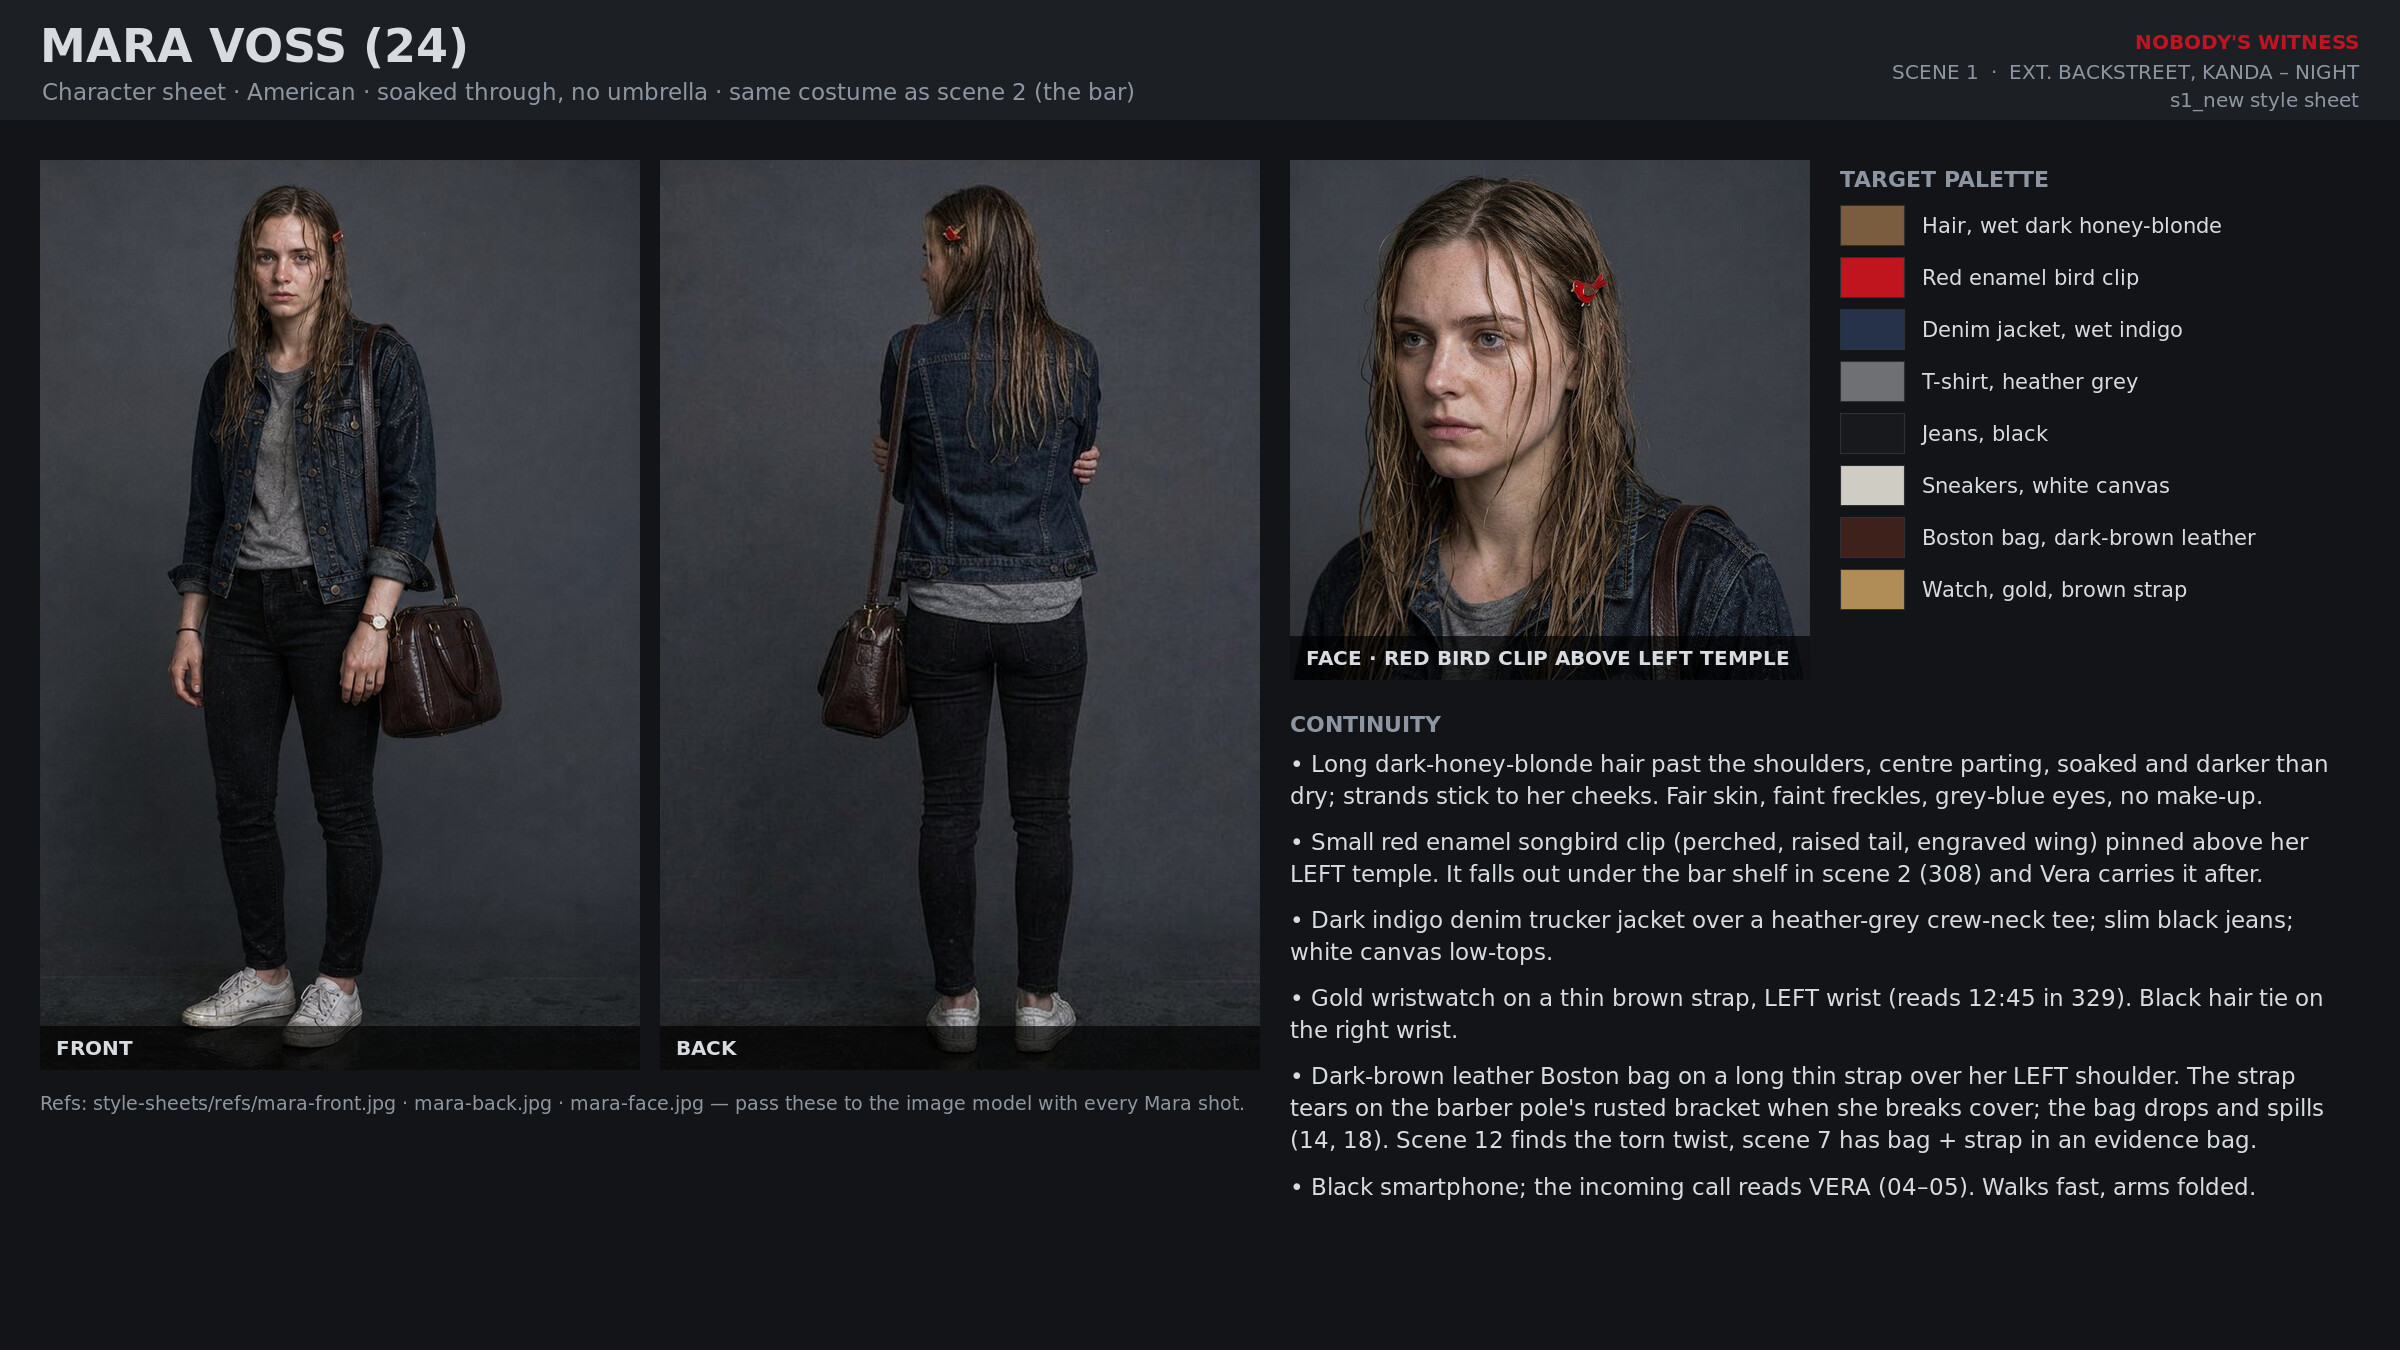
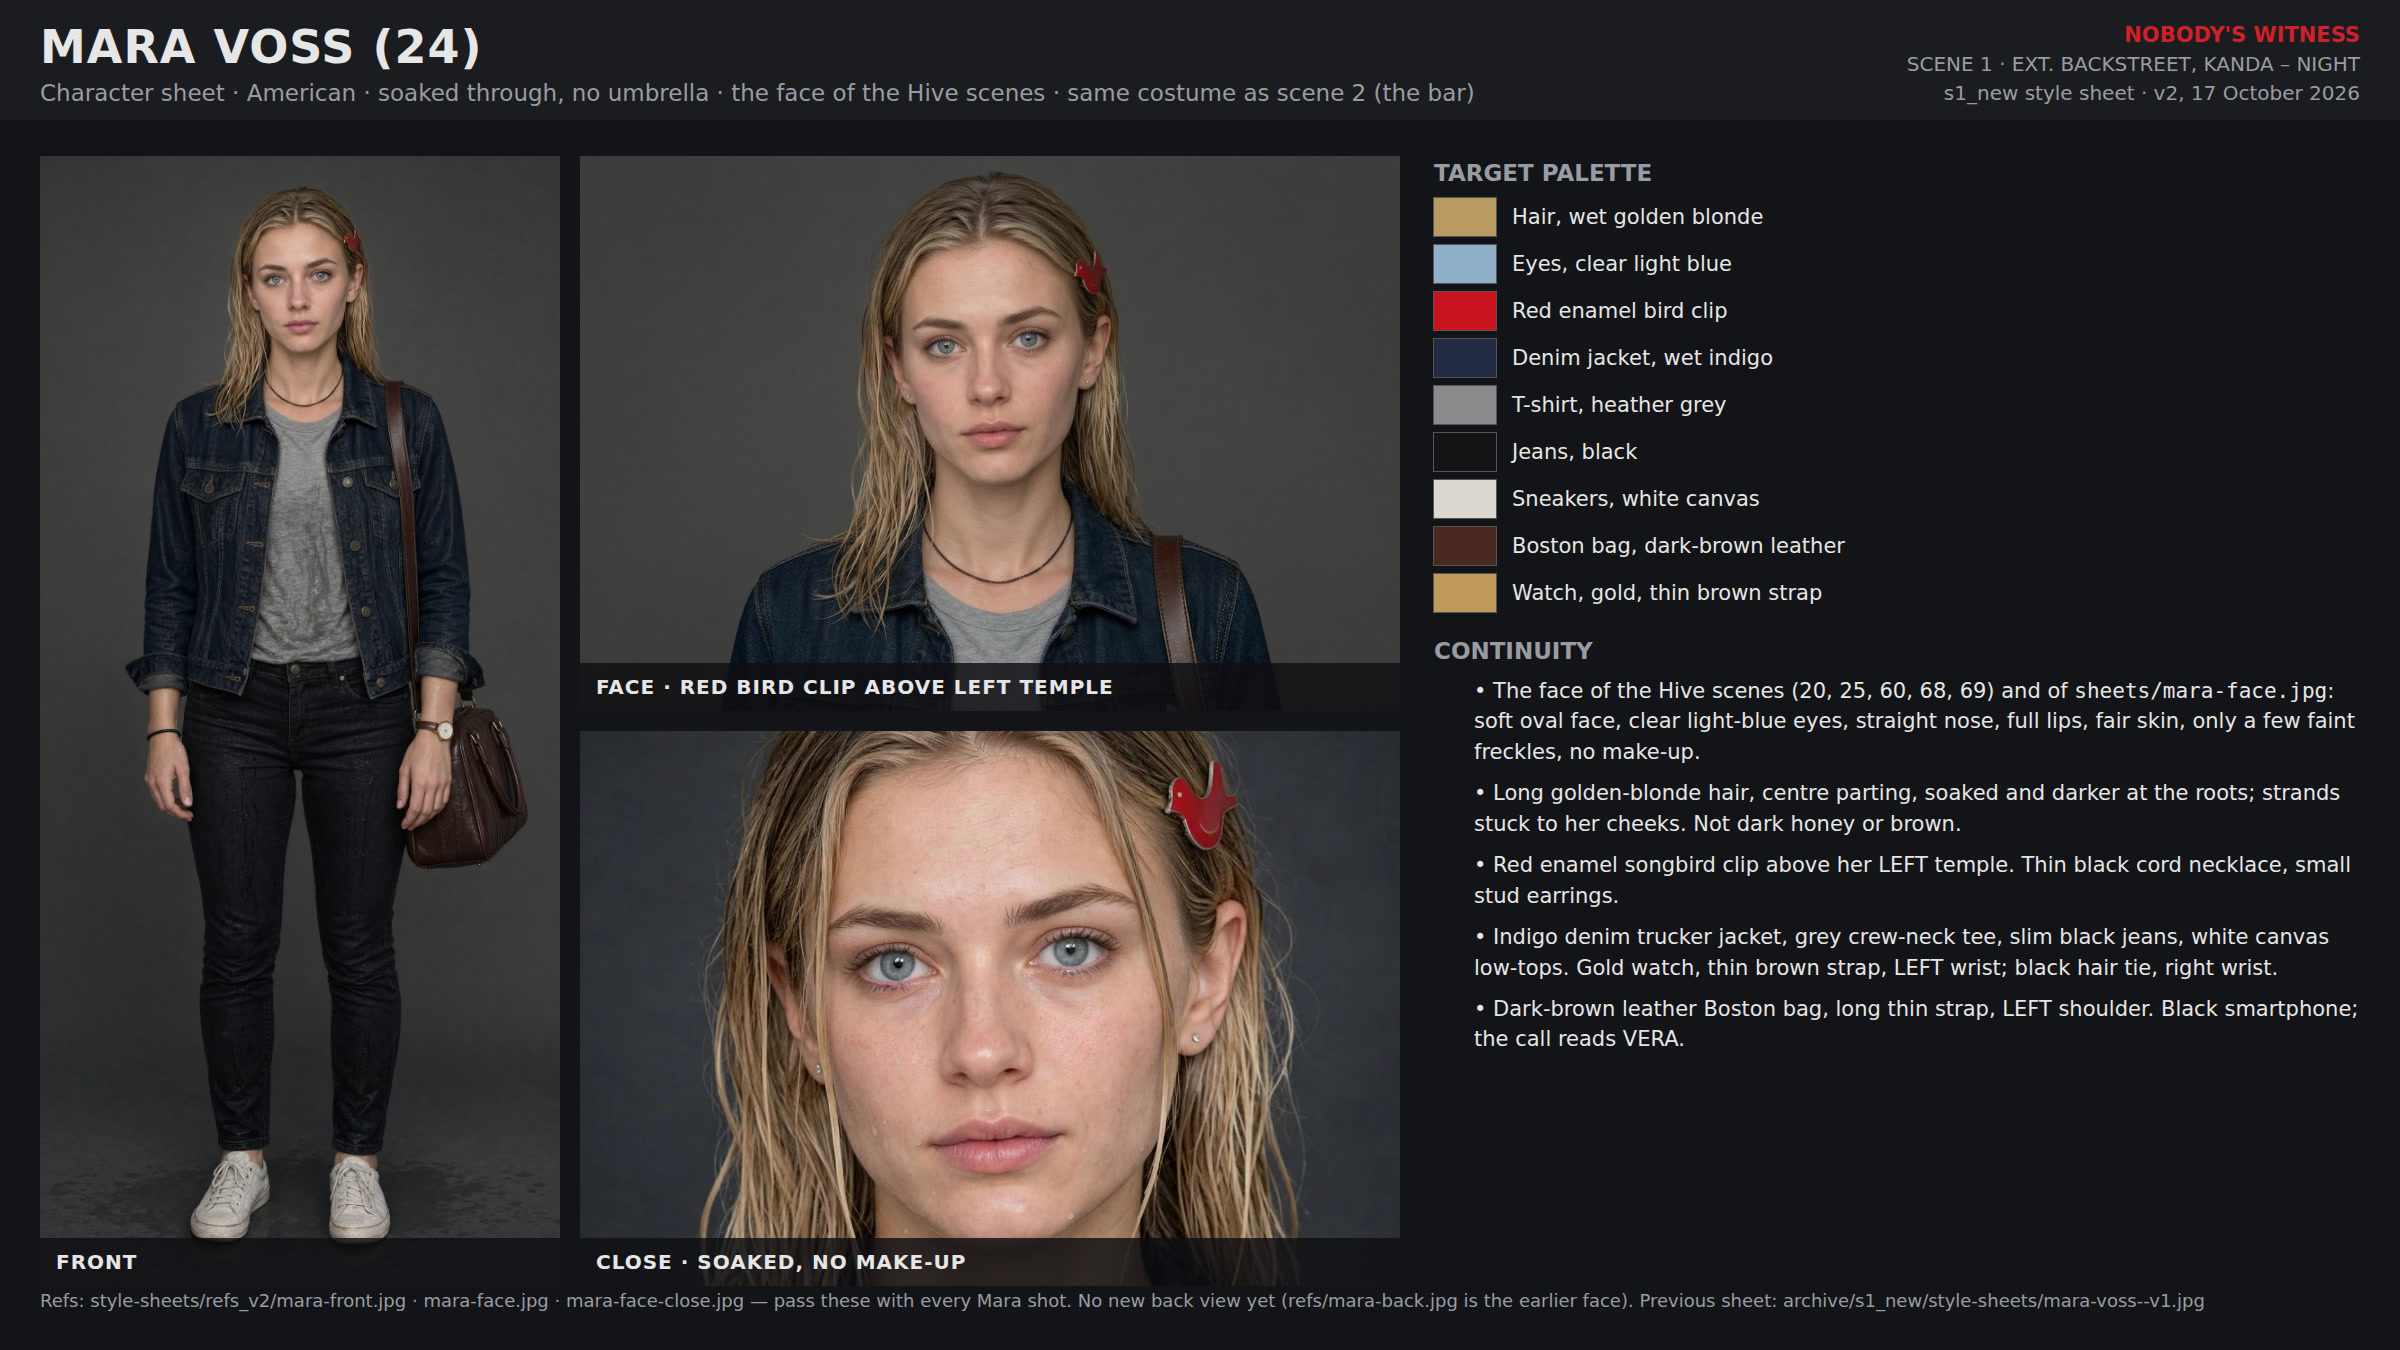
Mara's scene 1 sheet v2: the face of the Hive scenes
The director's three references go in s1_new/style-sheets/refs_v2/ and the
sheet is laid out from them; the first sheet is archived as
archive/s1_new/style-sheets/mara-voss--v1.jpg.

Claude-Session: https://claude.ai/code/session_012ydbYCSE5scPimQfDa9uE1

diff --git a/public/film/img/s1_new/README.md b/public/film/img/s1_new/README.md
@@ -45,7 +45,7 @@ scene's 23 shots were all generated again from nothing, using a new set of style
 
 | Sheet | What it locks down |
 |-------|--------------------|
-| `mara-voss.jpg` | Mara's face, wet hair, red enamel bird clip (left temple), denim jacket, grey tee, black jeans, white sneakers, gold watch (left wrist), brown leather Boston bag on a long strap (left shoulder) |
+| `mara-voss.jpg` | **v2, 17 October 2026: the face of the Hive scenes** (golden-blonde hair, light-blue eyes, soft oval face), from the director's references in `refs_v2/` (`mara-front.jpg`, `mara-face.jpg`, `mara-face-close.jpg`); attach those with every Mara shot. Wet hair, red enamel bird clip (left temple), denim jacket, grey tee, black jeans, white sneakers, gold watch on a thin brown strap (left wrist), brown leather Boston bag on a long strap (left shoulder). `refs/mara-*` and the first sheet (`archive/s1_new/style-sheets/mara-voss--v1.jpg`) are the earlier, darker-haired face |
 | `old-man-sakai.jpg` | Mr. Sakai's face, grey tweed flat cap, cheap putty-beige vinyl raincoat, white shirt and grey cardigan, the hand pressed to his side |
 | `masked-men-and-sedan.jpg` | Exactly two men: the earpiece leader (black suit, open overcoat, suppressed pistol) and the second man. Also the one black late-1990s executive saloon |
 | `location-kanda-backstreet.jpg` | Master plates A (from the road) and B (toward the road), a plan of the lane with every story position, the geography rules and the look/palette |
